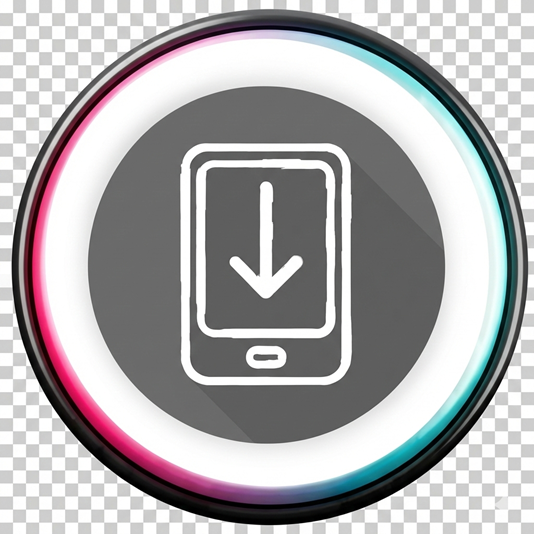
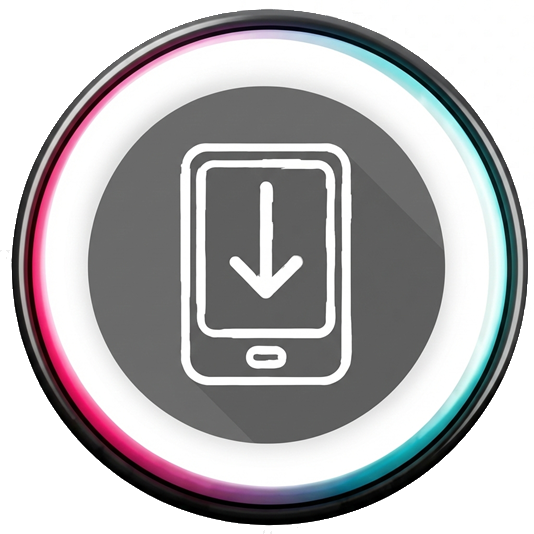
Se cambian los nombres de los iconos

Changed region(s): [[0.0, 0.0, 1.0, 1.0]]

diff --git a/src/components/Cliente/Cliente.jsx b/src/components/Cliente/Cliente.jsx
@@ -294,7 +294,7 @@ const Cliente = ({ slug, colorPrimario }) => {
                     className="tarjeta-qr-imagen"
                     onError={(e) => {
                       e.target.onerror = null;
-                      e.target.src = `${baseUrl}/img/qr-default.png`;
+                      e.target.src = `${baseUrl}/img/icono-default.png`;
                     }}
                   />
                 </div>
